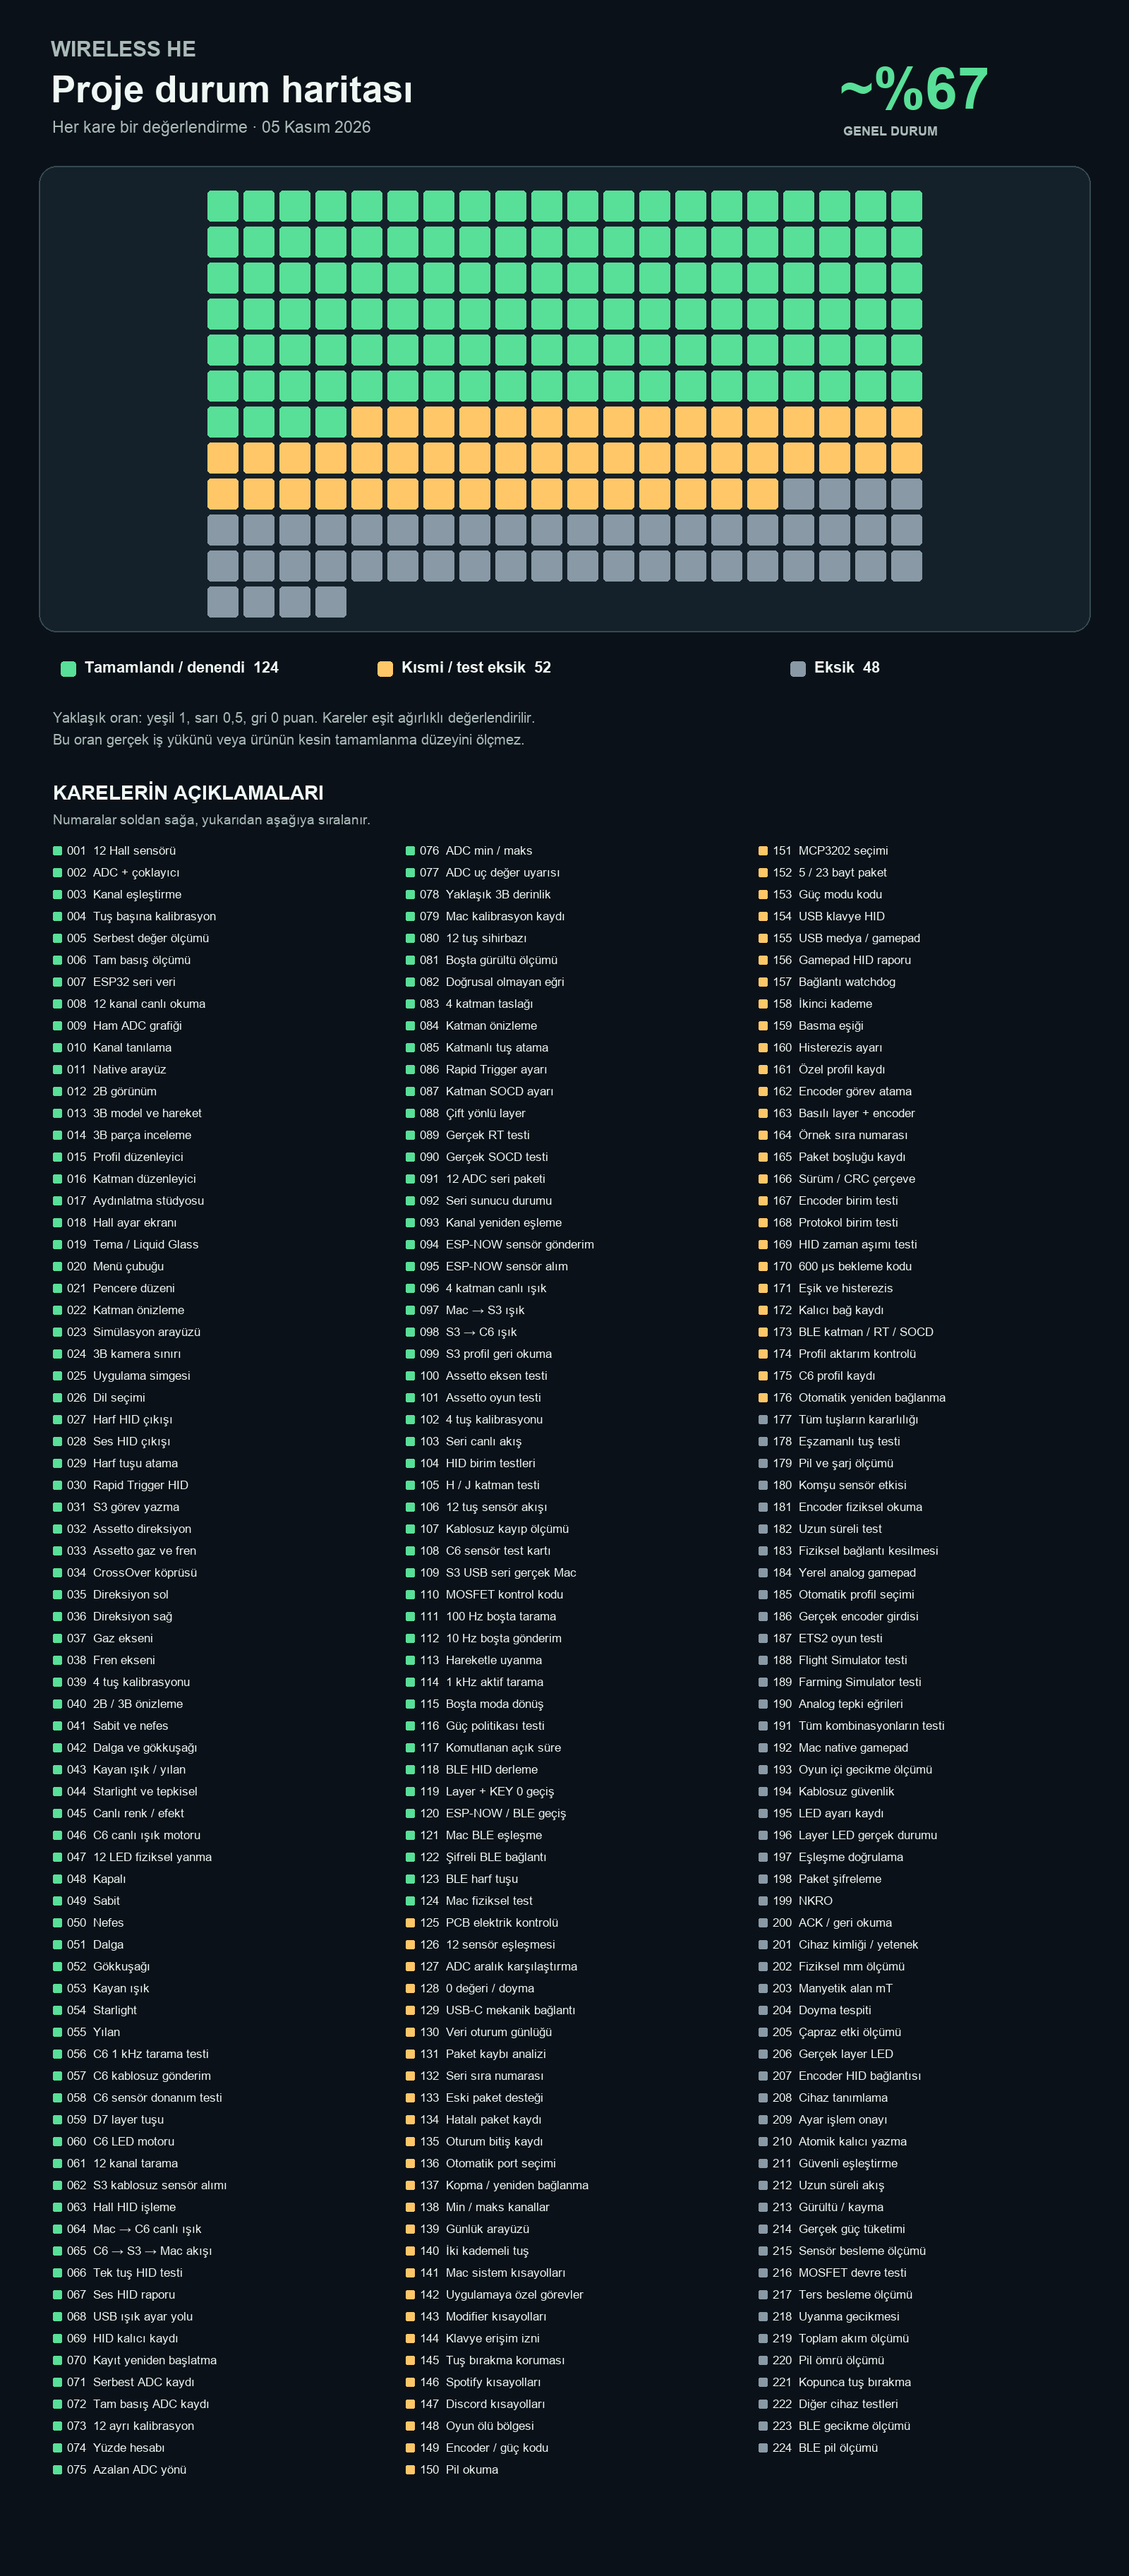
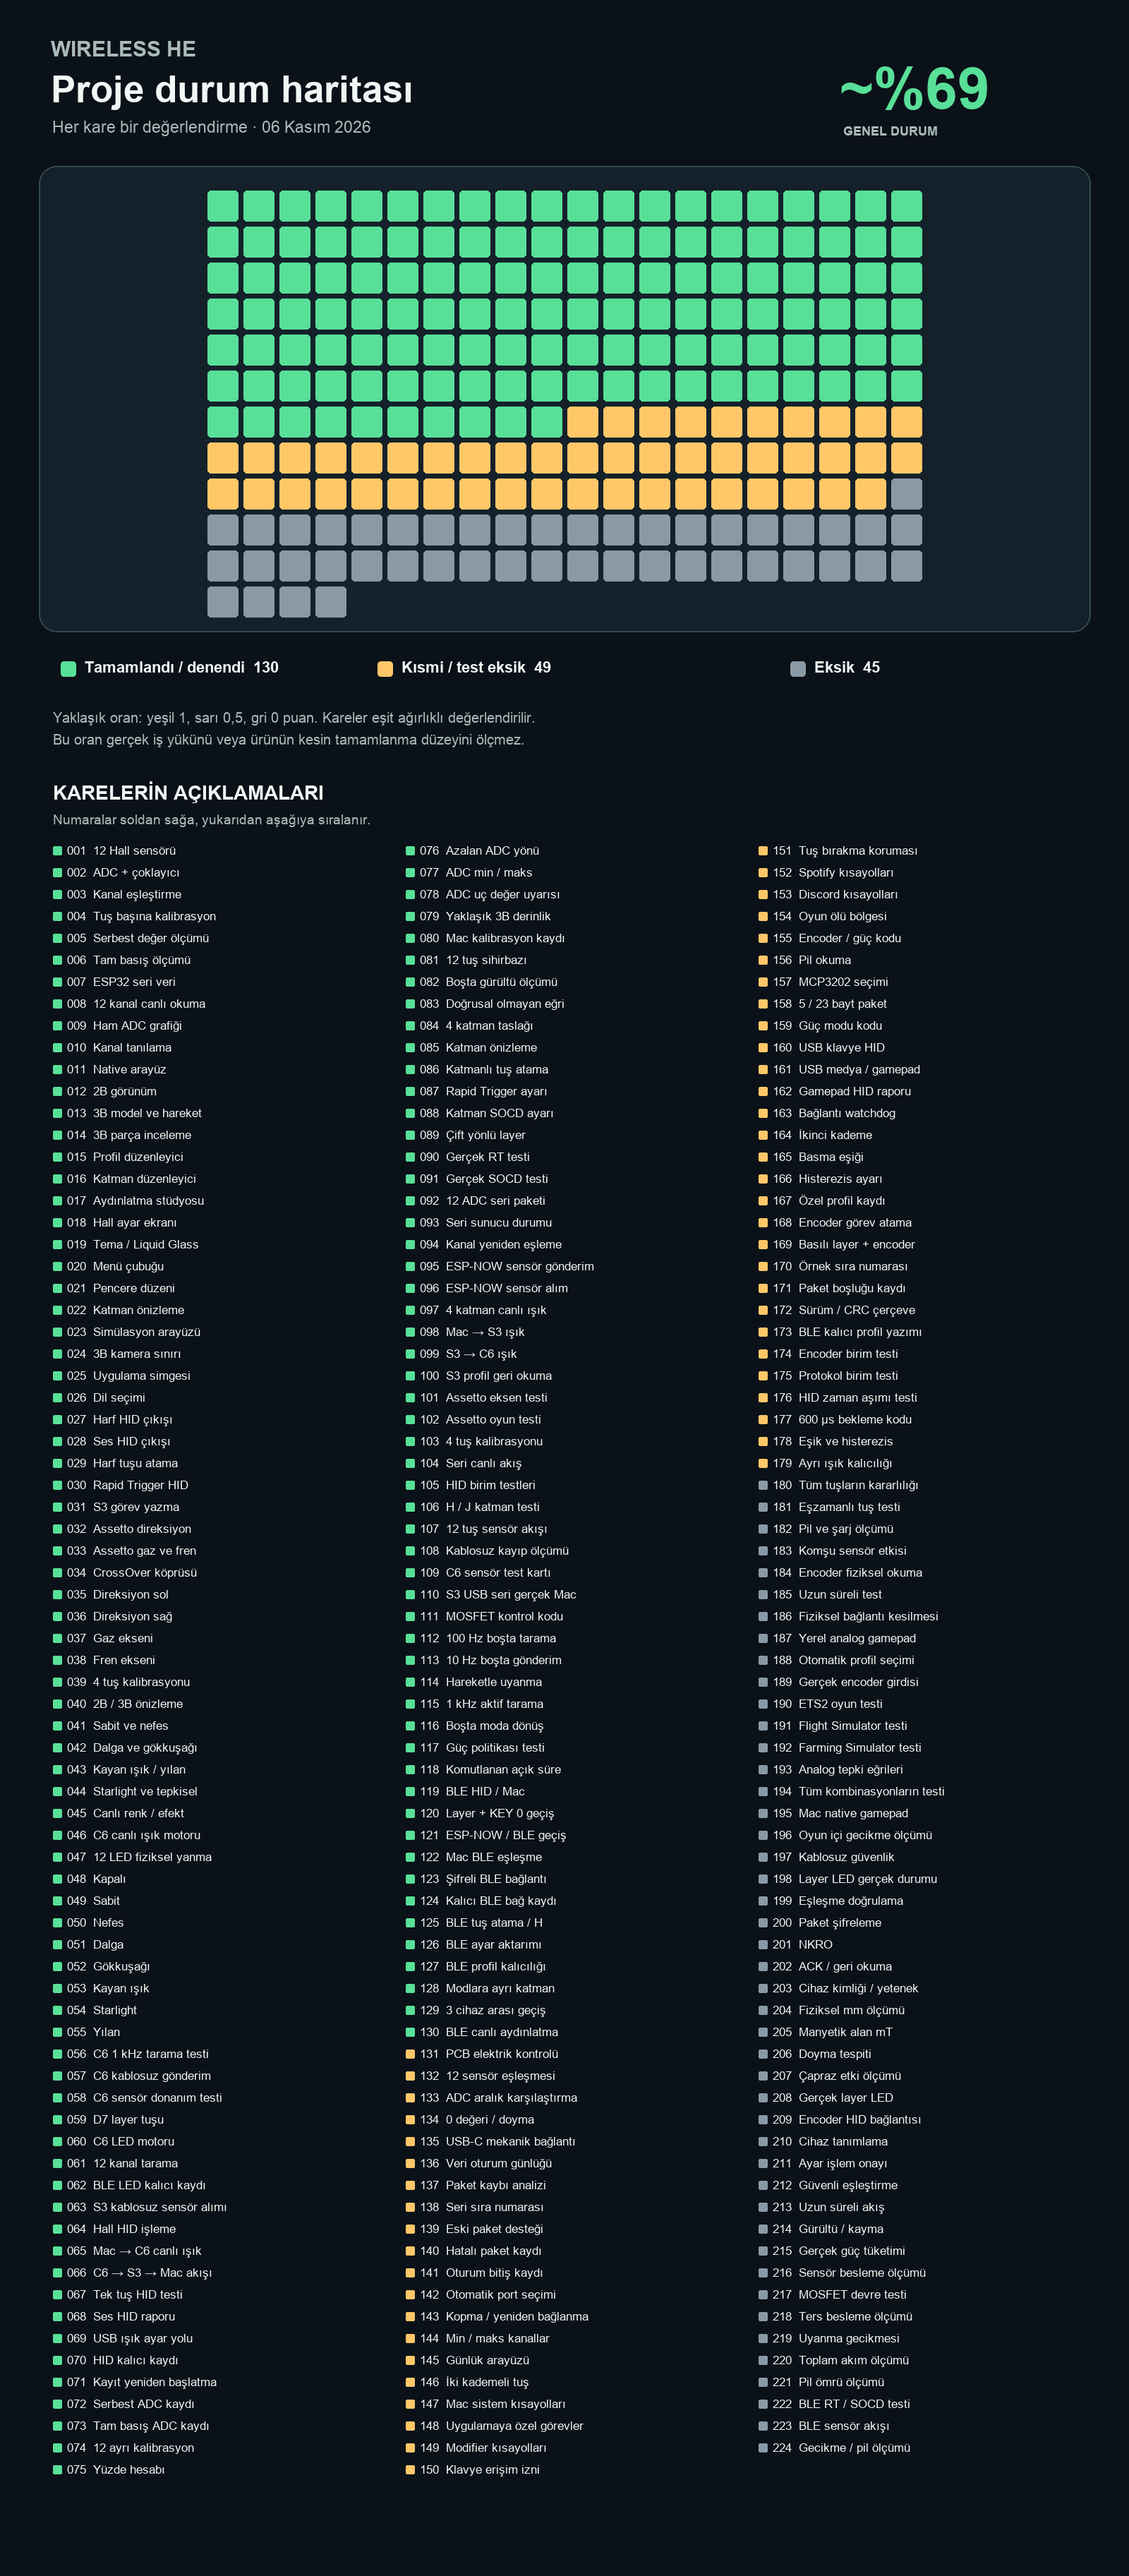
Update progress maps with BLE configuration tests

diff --git a/tools/progress_english.py b/tools/progress_english.py
@@ -12,14 +12,14 @@ translations=[
 ('MAC INPUT','Keyboard output|Two-stage key|Media and volume|macOS shortcuts|App-specific actions|Native analog gamepad|Automatic profile switching|Physical encoder input|Letter key assignment|Modifier shortcuts|Accessibility permission|Key-release protection|Spotify shortcuts|Discord shortcuts|Rapid Trigger output|Write actions to device'),
 ('GAMES & ANALOG','Assetto steering|Assetto throttle / brake|CrossOver bridge|ETS2 in-game test|Flight Simulator test|Farming Simulator test|Analog response curves|All-combinations test|Steer left|Steer right|Throttle axis|Brake axis|Four-key calibration|Game deadzone|Native Mac gamepad|In-game latency measurement'),
 ('LIGHTING','2D / 3D preview|Static / breathing|Wave / rainbow|Sweep / snake|Starlight / reactive|Live color / effect|C6 live LED engine|12 physical LEDs lit|Off|Static|Breathing|Wave|Rainbow|Sweep|Starlight|Snake'),
-('C6 TRANSMITTER','C6 1 kHz scan test|C6 wireless transmit|Encoder / power code|Battery reading|C6 sensor hardware test|D7 layer switch|C6 LED engine|Wireless security|MCP3202 selection|12-channel scan|5 / 23-byte frame|Power mode code|Store LED settings|Physical layer LEDs|Pairing verification|Packet encryption'),
+('C6 TRANSMITTER','C6 1 kHz scan test|C6 wireless transmit|Encoder / power code|Battery reading|C6 sensor hardware test|D7 layer switch|C6 LED engine|Wireless security|MCP3202 selection|12-channel scan|5 / 23-byte frame|Power mode code|BLE LED settings saved|Physical layer LEDs|Pairing verification|Packet encryption'),
 ('S3 RECEIVER & CONFIG','S3 wireless sensor RX|USB keyboard 6KRO|USB media / gamepad|Hall processing|NKRO|Mac to C6 live lighting|ACK / readback|C6 to S3 to Mac stream|Single-key HID test|Consumer HID report|Gamepad HID report|Connection watchdog|USB lighting settings|Versioned NVS storage|Device identity / capabilities|Settings readback test'),
 ('CALIBRATION & MEASUREMENT','Released ADC capture|Fully pressed ADC capture|12-key calibration|Percentage calculation|Reverse polarity sensor|ADC min / max|ADC endpoint warning|Approximate 3D depth|Calibration persistence|12-key wizard|Physical travel in mm|Magnetic field in mT|Saturation detection|Noise profile|Nonlinear response curve|Cross-channel effects'),
 ('LAYERS, HALL & ACTIONS','Four layer drafts|Layer preview|Single key assignment|Second actuation stage|Actuation threshold|Hysteresis|Rapid Trigger settings|Layer SOCD settings|Custom profile storage|Encoder assignment|Hold layer + encoder|Physical layer LED|Two-way layer state|Physical Rapid Trigger test|Physical SOCD test|Encoder HID integration'),
-('COMMUNICATION & CONFIG','12 ADC serial frame|Serial server status|Channel remapping|Sample sequence number|Sequence gap logging|Version / CRC frame|ESP-NOW sensor TX|ESP-NOW sensor RX|Four-layer live lighting|Device identification|Mac to S3 lighting|S3 to C6 lighting|Config transaction confirmation|Device readback|Atomic persistent writes|Secure pairing'),
+('COMMUNICATION & CONFIG','12 ADC serial frame|Serial server status|Channel remapping|Sample sequence number|Sequence gap logging|Version / CRC frame|ESP-NOW sensor TX|ESP-NOW sensor RX|Four-layer live lighting|Device identification|Mac to S3 lighting|S3 to C6 lighting|Config transaction confirmation|Device readback|BLE persistent profile write|Secure pairing'),
 ('TEST & RELIABILITY','Assetto axis test|Assetto gameplay test|Four-key calibration|Live serial stream|HID unit tests|Encoder unit tests|Protocol unit tests|Profile mapping|12-key sensor stream|Long-duration stream|Noise / drift|Power consumption|Wireless loss measurement|HID timeout unit test|C6 sensor test board|S3 USB serial on Mac'),
 ('POWER & DUTY CYCLE','MOSFET gate control|100 Hz idle scan|10 Hz idle transmission|Wake on movement|1 kHz active target|Idle after 2 s|Startup delay|Threshold / hysteresis|Power policy unit tests|Sensor supply measurement|MOSFET circuit test|Backfeed measurement|Wake latency|Noise / wake threshold|Total current measurement|Battery life measurement'),
-('BLUETOOTH LE','BLE HID build|Layer + KEY 0 switch|ESP-NOW / BLE switching|Mac BLE pairing|Encrypted BLE link|Bond persistence|BLE keyboard output|BLE layers / RT / SOCD|Profile transfer validation|C6 profile storage|Release on disconnect|Automatic reconnect|Mac hardware test|Other host tests|Latency measurement|BLE battery test'),
+('BLUETOOTH LE','BLE HID / Mac|Layer + KEY 0 switch|ESP-NOW / BLE switching|Mac BLE pairing|Encrypted BLE link|Bond persistence|BLE key assignment / H|BLE RT / SOCD test|BLE configuration transfer|BLE profile persistence|Separate transport layers|Three-host switching|BLE live lighting|Separate lighting persistence|BLE sensor stream|Latency / battery measurement'),
 ]
 translations = [(name, labels.replace('Keyboard output|', 'Letter HID output|').replace('Media / audio|', 'Volume HID output|').replace('Write actions to device', 'Write S3 actions').replace('Consumer HID report', 'Volume HID report').replace('Versioned NVS storage', 'Persistent HID settings').replace('Settings readback test', 'Settings restart test').replace('Single key assignment', 'Layered key assignment').replace('Device readback', 'S3 profile readback').replace('Startup delay', '600 µs startup delay').replace('Noise / wake threshold', 'Commanded gate on-time').replace('Profile mapping', 'H / J layer test')) for name, labels in translations]
 groups=[]
@@ -43,7 +43,7 @@ def wrap(d,text,w,n=17):
 out=root/'Docs/progress';out.mkdir(parents=True,exist_ok=True)
 im=Image.new('RGB',(2600,2085),'#080d12');d=ImageDraw.Draw(im)
 title(d,(38,25),'WIRELESS HE  /  PROJECT PROGRESS MAP',39,b=True)
-title(d,(40,80),'Hardware · sensor platform · macOS · firmware · power · 05 Nov 2026',20,'#becbd0')
+title(d,(40,80),'Hardware · sensor platform · macOS · firmware · power · 06 Nov 2026',20,'#becbd0')
 title(d,(1960,126),f'OVERALL  ~{score}%',25,colors['tested'],True)
 title(d,(38,128),f'PROJECT FEATURES  /  {len(states)} STATUS TILES',24,b=True)
 title(d,(40,164),'Estimate: tested = 1, partial = 0.5, missing = 0; tiles are equally weighted and can overlap.',18,'#becbd0')
@@ -63,15 +63,15 @@ for i,(key,label) in enumerate([('tested','Complete / tested'),('partial','Imple
  yy=y+60+i*60;d.rectangle((x+20,yy,x+41,yy+21),fill=colors[key]);title(d,(x+58,yy),f'{label}: {states.count(key)}',18)
 title(d,(x+20,y+277),'The score is a rough checklist index, not a product-completion metric.',15,'#becbd0')
 x,y=38,1599;d.rounded_rectangle((x,y,x+2521,y+335),6,fill='#17222c',outline='#455966');title(d,(x+20,y+15),'CURRENT PRIORITIES',23,b=True)
-for i,t in enumerate(['BLE reconnect and connection security','Wireless throughput, reliability and secure pairing','MOSFET rail, backfeed and current measurements','Physical encoder, gamepad and battery tests']):title(d,(x+25,y+62+i*47),f'{i+1:02}   {t}',20)
-title(d,(x+20,y+270),'Layered HID, SOCD and Rapid Trigger tested; power savings are unmeasured.',16,'#becbd0')
+for i,t in enumerate(['BLE stability, RT / SOCD and sensor stream','Wireless throughput, reliability and secure pairing','MOSFET rail, backfeed and current measurements','Physical encoder, gamepad and battery tests']):title(d,(x+25,y+62+i*47),f'{i+1:02}   {t}',20)
+title(d,(x+20,y+270),'Separate BLE / ESP-NOW key assignments tested; power savings unmeasured.',16,'#becbd0')
 title(d,(38,1990),'Status reflects evidence from the test platform and code review. It does not guarantee product readiness.',18,'#becbd0')
 im.save(out/'project-progress-en.png',optimize=True)
 # Compact sorted grid and numbered explanatory list.
 entries=[(g,n,s) for g,items in groups for n,s in items];entries.sort(key=lambda x:{'tested':0,'partial':1,'missing':2}[x[2]])
 im=Image.new('RGB',(1600,3650),'#0b1118');d=ImageDraw.Draw(im)
 title(d,(72,50),'WIRELESS HE',30,'#a9bab9',True);title(d,(72,95),'Project progress overview',53,b=True)
-title(d,(74,167),'One square per review item · 05 Nov 2026',23,'#a9bab9');title(d,(1190,78),f'~{score}%',82,colors['tested'],True)
+title(d,(74,167),'One square per review item · 06 Nov 2026',23,'#a9bab9');title(d,(1190,78),f'~{score}%',82,colors['tested'],True)
 d.rounded_rectangle((55,235,1545,895),25,fill='#15212a',outline='#354a50',width=2)
 for i,(_,_,state) in enumerate(entries):
  x=294+(i%20)*51;y=270+(i//20)*51;d.rounded_rectangle((x,y,x+43,y+43),5,fill=colors[state])

diff --git a/tools/progress.py b/tools/progress.py
@@ -103,16 +103,22 @@ for group, changes in latest.items():
     groups[group] = [changes.get(label, (label, state)) for label, state in groups[group]]
 
 # 5 Nov: only user-confirmed BLE behaviour is marked tested.
+# 6 Kasım: yalnız kullanıcı tarafından doğrulanan akışlar yeşil.
 groups['BLUETOOTH LE'] = [
- ('BLE HID derleme','tested'), ('Layer + KEY 0 geçiş','tested'),
+ ('BLE HID / Mac','tested'), ('Layer + KEY 0 geçiş','tested'),
  ('ESP-NOW / BLE geçiş','tested'), ('Mac BLE eşleşme','tested'),
- ('Şifreli BLE bağlantı','tested'), ('Kalıcı bağ kaydı','partial'),
- ('BLE harf tuşu','tested'), ('BLE katman / RT / SOCD','partial'),
- ('Profil aktarım kontrolü','partial'), ('C6 profil kaydı','partial'),
- ('Kopunca tuş bırakma','missing'), ('Otomatik yeniden bağlanma','partial'),
- ('Mac fiziksel test','tested'), ('Diğer cihaz testleri','missing'),
- ('BLE gecikme ölçümü','missing'), ('BLE pil ölçümü','missing'),
+ ('Şifreli BLE bağlantı','tested'), ('Kalıcı BLE bağ kaydı','tested'),
+ ('BLE tuş atama / H','tested'), ('BLE RT / SOCD testi','missing'),
+ ('BLE ayar aktarımı','tested'), ('BLE profil kalıcılığı','tested'),
+ ('Modlara ayrı katman','tested'), ('3 cihaz arası geçiş','tested'),
+ ('BLE canlı aydınlatma','tested'), ('Ayrı ışık kalıcılığı','partial'),
+ ('BLE sensör akışı','missing'), ('Gecikme / pil ölçümü','missing'),
 ]
+
+
+# BLE'de sabit ışık kaydı ve katman yazımı doğrulandı; diğer yolların tamamı ayrı test gerektirir.
+groups['C6 GÖNDERİCİ'] = [('BLE LED kalıcı kaydı', 'tested') if label == 'LED ayarı kaydı' else (label, state) for label, state in groups['C6 GÖNDERİCİ']]
+groups['İLETİŞİM & YAPILANDIRMA'] = [('BLE kalıcı profil yazımı', 'partial') if label == 'Atomik kalıcı yazma' else (label, state) for label, state in groups['İLETİŞİM & YAPILANDIRMA']]
 
 def audit():
     s=SWIFT.read_text(); a=s.index('final class MacKeyOutput {'); b=s.index('\nfinal class StudioModel:',a)
@@ -163,7 +169,7 @@ partial_count = states.count("partial")
 estimated_progress = 100 * (tested_count + 0.5 * partial_count) / len(states)
 t(38,25,"WIRELESS HE  /  PROJE İLERLEME HARİTASI",39,white,True)
 t(2080,27,f"GENEL TAHMİN  %{estimated_progress:.0f}",26,green,True)
-t(40,76,"Donanım · test platformu · macOS · aydınlatma · firmware · profiller  /  05 Kasım 2026",19,muted)
+t(40,76,"Donanım · test platformu · macOS · aydınlatma · firmware · profiller  /  06 Kasım 2026",19,muted)
 for x,col,label in [(1460,green,"Tamamlandı / denendi"),(1735,yellow,"Kod / taslak · test eksik"),(2250,grey,"Eksik")]:
     d.rectangle((x,78,x+18,96),fill=col);t(x+27,75,label,18)
 states=[state for items in groups.values() for _,state in items]
@@ -199,11 +205,11 @@ t(x+15,y+311,f"{supported} hazır · {setup} hedefte atama gerekli · test deği
 x=38;y=1599
 box(x,y,2521,335)
 t(x+20,y+15,"ÖNCELİKLİ EKSİKLER",23,white,True)
-notes=[("01","BLE yeniden bağlanma ve bağlantı güvenliği"),("02","1 kHz kablosuz aktarım ve paket kaybı"),("03","Duty cycle: voltaj, ters besleme ve akım ölçümü"),("04","Encoder, analog gamepad ve pil testi")]
+notes=[("01","BLE dayanıklılık, RT / SOCD ve canlı sensör akışı"),("02","1 kHz kablosuz aktarım ve paket kaybı"),("03","Duty cycle: voltaj, ters besleme ve akım ölçümü"),("04","Encoder, analog gamepad ve pil testi")]
 for i,(n,label) in enumerate(notes):
     yy=y+56+i*49
     t(x+20,yy,n,19,yellow,True);t(x+65,yy,label,19,white,True)
-t(x+20,y+271,"Harf / ses HID ve kalıcı kayıt denendi; gerçek güç tasarrufu henüz ölçülmedi.",16,muted)
+t(x+20,y+271,"BLE ve ESP-NOW katman ayrımı denendi; ışık kalıcılığı ve güç tüketimi ölçülmeli.",16,muted)
 t(38,1995,"Genel tahmin: yeşil 1, sarı 0,5, gri 0 puan; durum kareleri eşit ağırlıklıdır, gerçek proje tamamlanma ölçümü değildir.",17,muted)
 t(38,2023,"Yeşil profil karesi kod karşılığını gösterir; gerçek uygulama testi anlamına gelmez.",17,muted)
 OUT.parent.mkdir(parents=True,exist_ok=True);im.save(OUT,optimize=True)

diff --git a/tools/progress_grid.py b/tools/progress_grid.py
@@ -25,7 +25,7 @@ white, mute = '#eff8f4', '#a9bab9'
 green, gold, gray = '#58df98', '#ffc768', '#8999a6'
 text(72, 52, 'WIRELESS HE', 30, mute, True)
 text(72, 97, 'Proje durum haritası', 53, white, True)
-text(74, 167, 'Her kare bir değerlendirme · 05 Kasım 2026', 23, mute)
+text(74, 167, 'Her kare bir değerlendirme · 06 Kasım 2026', 23, mute)
 text(1190, 79, f'~%{score}', 82, green, True)
 text(1195, 175, 'GENEL DURUM', 18, mute, True)
 d.rounded_rectangle((55, 235, 1545, 895), radius=25, fill='#15212a', outline='#354a50', width=2)
